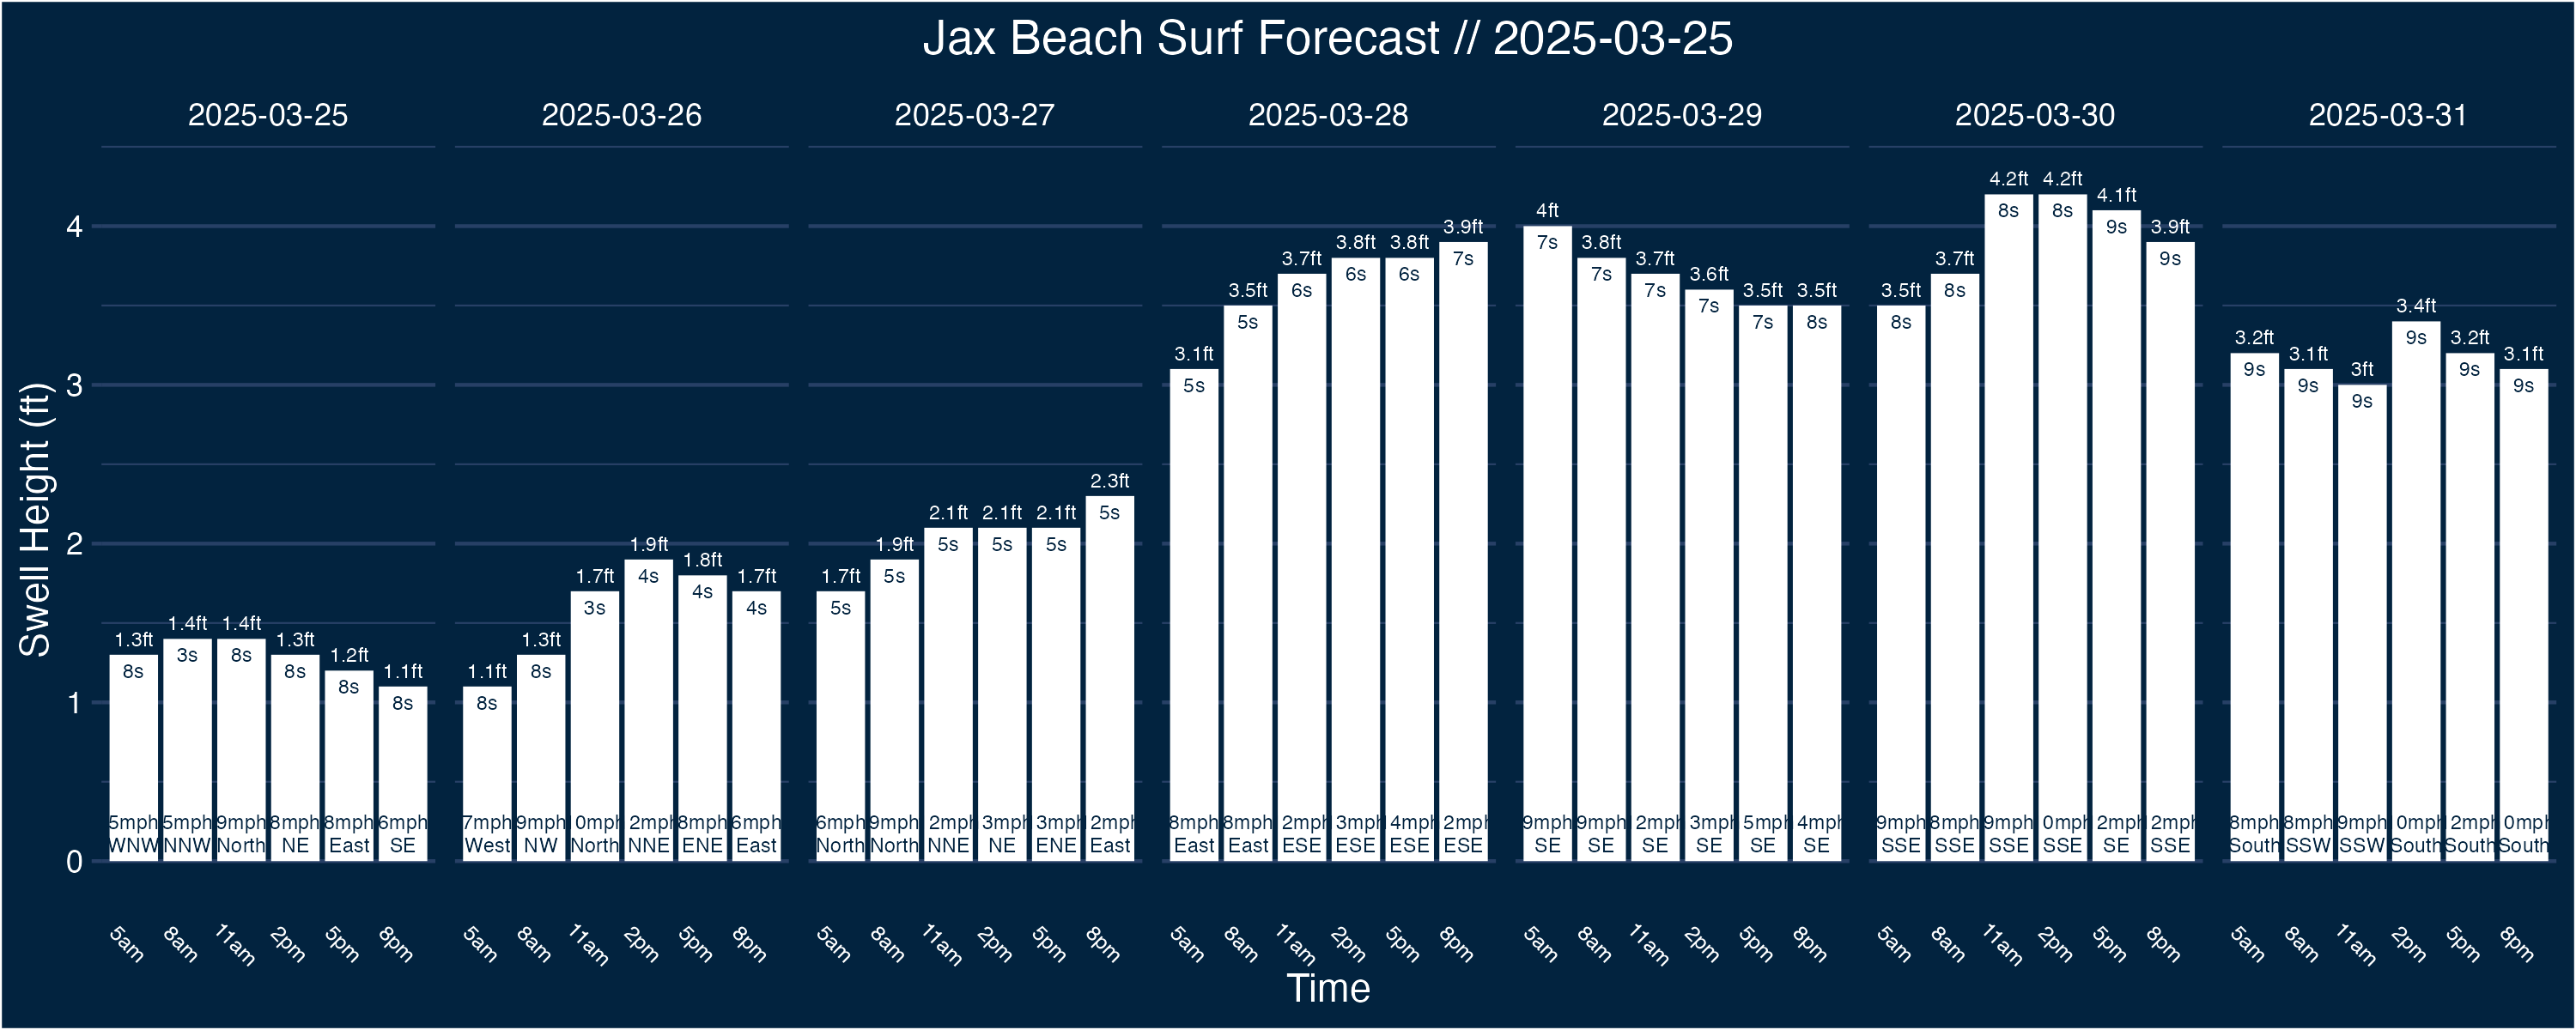
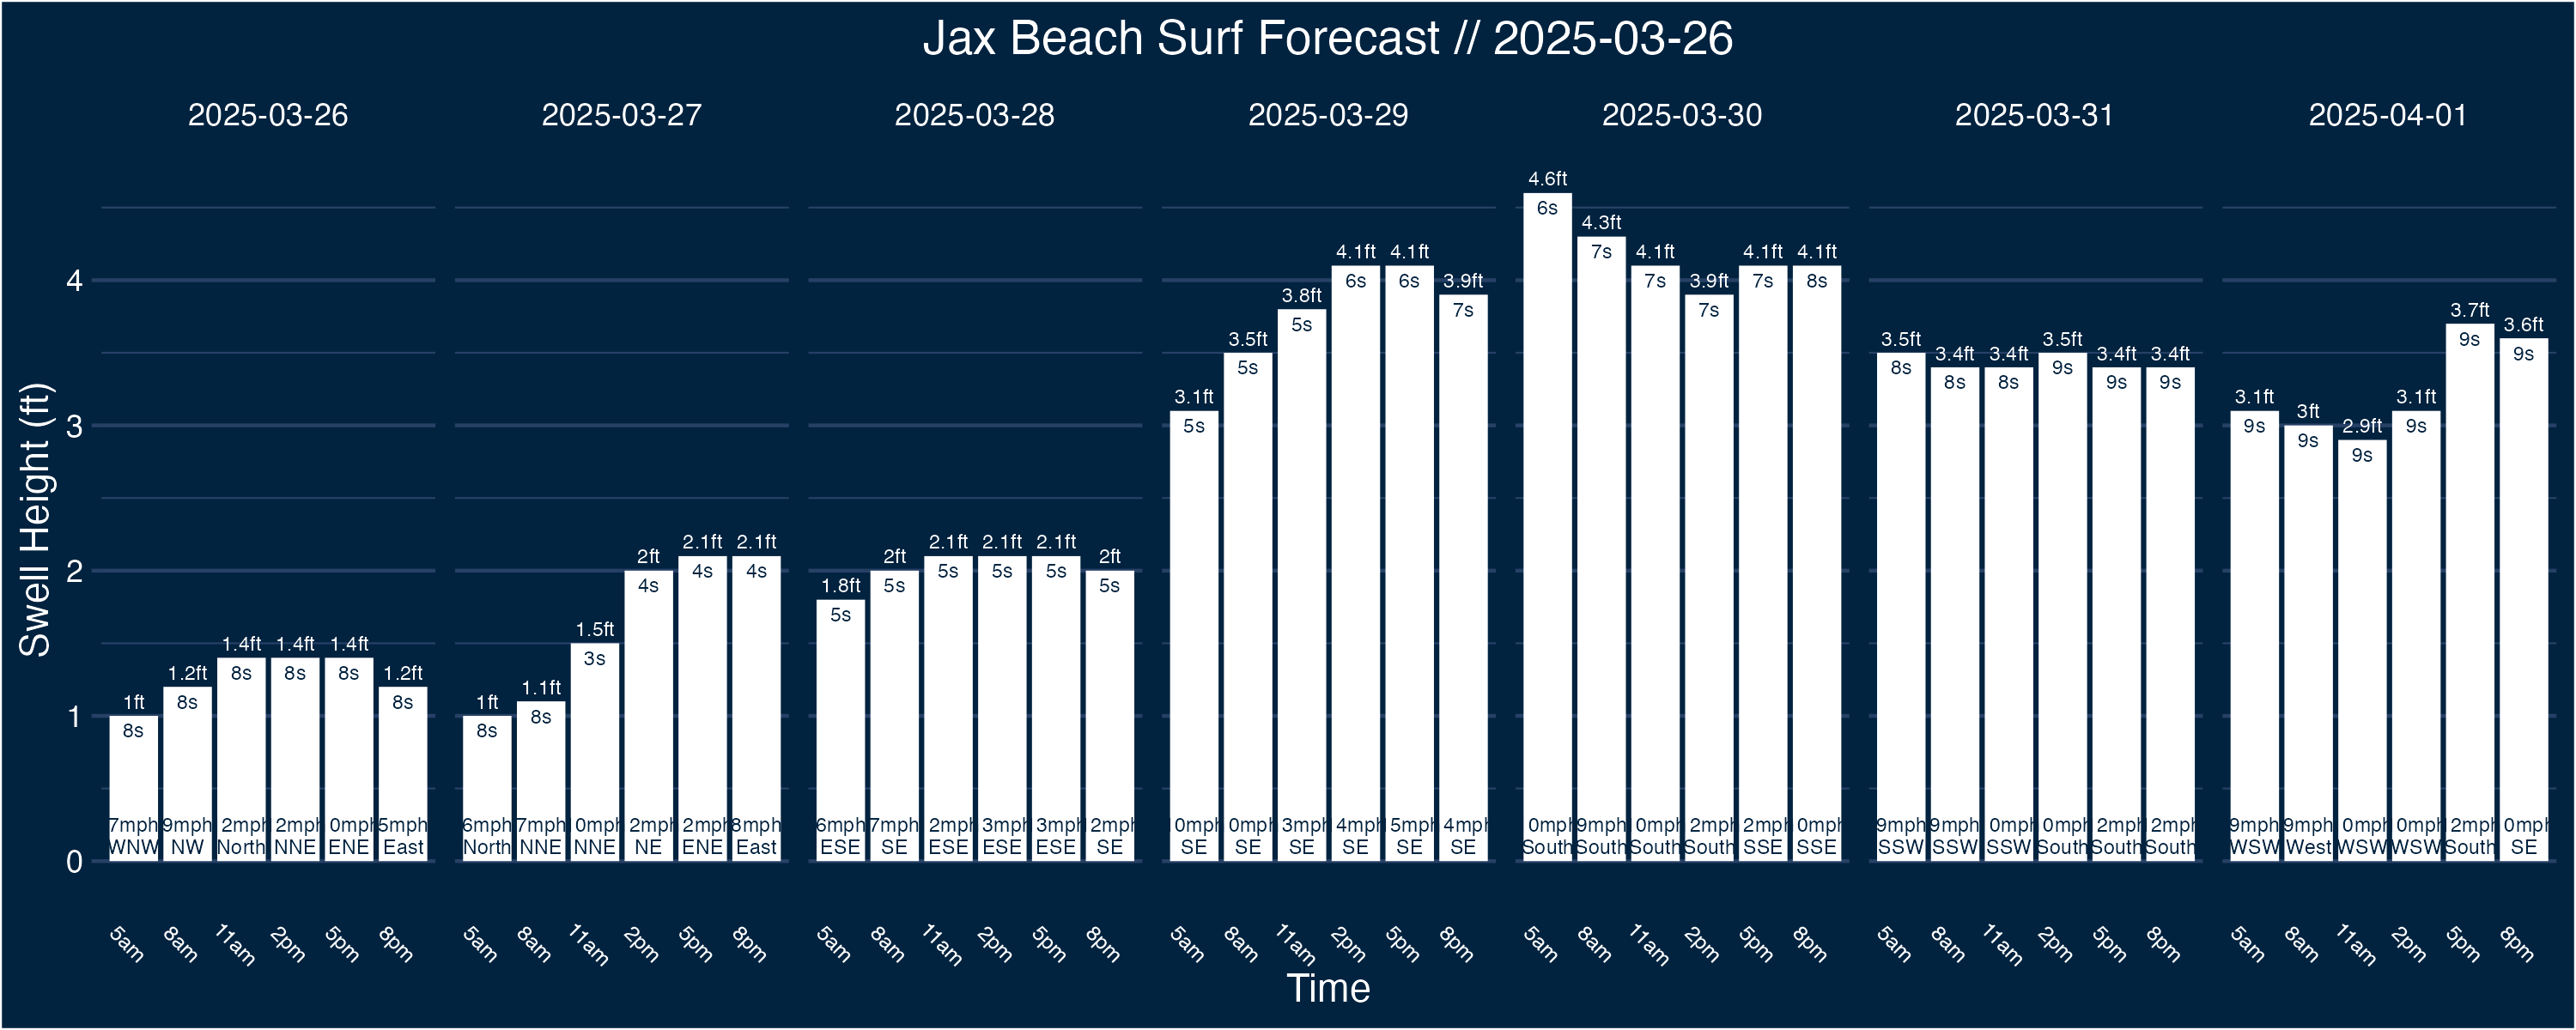
housekeeping

diff --git a/python/main.py b/python/main.py
@@ -132,7 +132,7 @@ class Client(discord.Client):
             await asyncio.sleep(1)
             await message.channel.send("pulling data from 2024 stanley cup game 7")
             subprocess.run(["Rscript", os.path.join(R_PATH, "floridaPanthe.R")])
-            await message.channel.send("champions", file = discord.File(os.path.join(OUTPUT_PATH, "catsWin.png")))
+            await message.channel.send("champions", file = discord.File(os.path.join(OUTPUT_PATH, "sports/nhl/catsWin.png")))
 
         if message.content.lower() == "hoops today?":  # Command to trigger CSV generation
             await message.channel.send("lemme check")